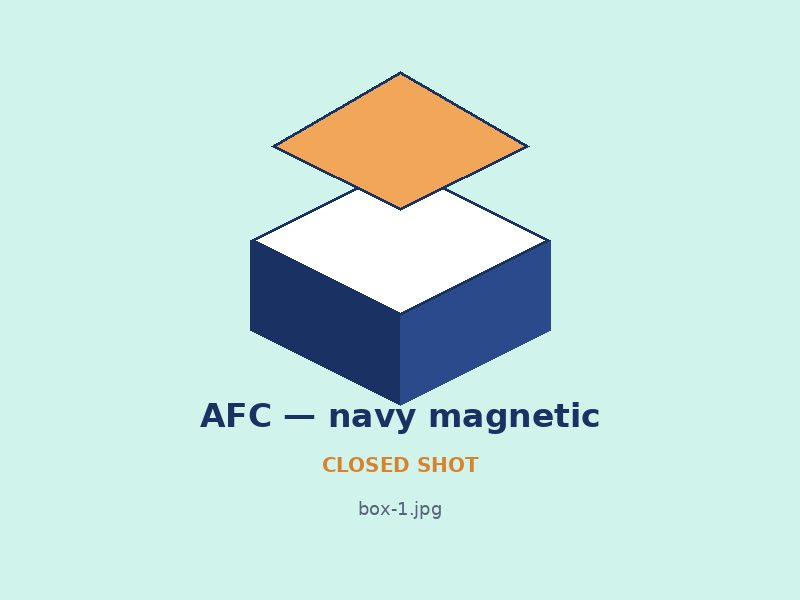
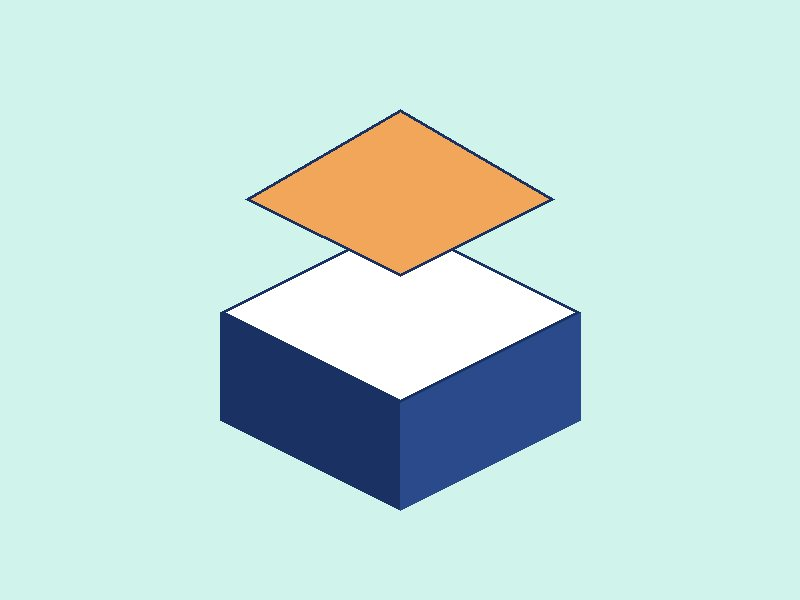
Make the page presentable at every stage of setup
Placeholder copy was reaching visitors: tiles 4-6 rendered the word
REPLACE in their captions, the testimonial cards showed REPLACE text,
and the Trustpilot block displayed the literal strings RATING and COUNT.
Anything still holding a placeholder now removes itself, and a section
whose content is entirely placeholder disappears with it.

Placeholder imagery redrawn as clean brand illustrations with no
instructional text, so an early publish looks deliberate rather than
unfinished. Dropping real photos over them needs no code change.

Gallery intro reworded so it reads correctly both before and after real
photography is in place.

Changed region(s): [[0.25, 0.12, 0.75, 0.87]]

diff --git a/assets/js/main.js b/assets/js/main.js
@@ -327,6 +327,40 @@
     });
   }
 
+  /* ---- Never show unfinished content to a visitor ----------
+     Tiles, testimonials and the Trustpilot figures all ship with
+     placeholder text. Rather than risk that text going live, anything
+     still holding a placeholder removes itself, and a section whose
+     content is entirely placeholder disappears with it. */
+  var isPlaceholder = function (el) {
+    if (!el) return false;
+    var t = (el.textContent || '') + (el.getAttribute && el.getAttribute('data-caption') || '');
+    return /REPLACE|\bRATING\b|\bCOUNT\b/.test(t);
+  };
+
+  /* Gallery tiles that have not been described yet */
+  $$('#gallery .shot').forEach(function (fig) {
+    var img = fig.querySelector('img');
+    var txt = (fig.textContent || '') + ' ' + (img && img.getAttribute('data-caption') || '');
+    if (/REPLACE/.test(txt)) fig.hidden = true;
+  });
+
+  /* Testimonials still carrying placeholder copy */
+  $$('.quote').forEach(function (fig) {
+    if (isPlaceholder(fig.querySelector('blockquote'))) fig.hidden = true;
+  });
+  var quotesWrap = $('.quotes');
+  if (quotesWrap && !$$('.quote:not([hidden])', quotesWrap).length) quotesWrap.hidden = true;
+
+  /* Trustpilot block before the real rating is filled in */
+  var tp = $('.tp');
+  if (tp && isPlaceholder(tp.querySelector('.tp__score'))) tp.hidden = true;
+
+  var reviewsSec = document.getElementById('reviews');
+  if (reviewsSec && (!quotesWrap || quotesWrap.hidden) && (!tp || tp.hidden)) {
+    reviewsSec.hidden = true;
+  }
+
   /* ================= Video facades ========================= */
   /* Nothing is requested from YouTube until someone clicks, so the
      embeds cost no page weight and cannot affect Core Web Vitals. */

diff --git a/index.html b/index.html
@@ -238,7 +238,7 @@
   <div class="wrap">
     <header class="sechead">
       <h2>Rigid boxes we&rsquo;ve built</h2>
-      <p>Real production runs, photographed as they shipped. Tap any box to see it larger &mdash; the caption tells you the exact build, so you can point at one and say &ldquo;like that.&rdquo;</p>
+      <p>Magnetic closure, drawer and printed lid-and-base builds from recent production runs. Tap any box to see it larger &mdash; the caption gives the exact build, so you can point at one and say &ldquo;like that.&rdquo;</p>
     </header>
 
     <div class="gallery" id="gallery">
